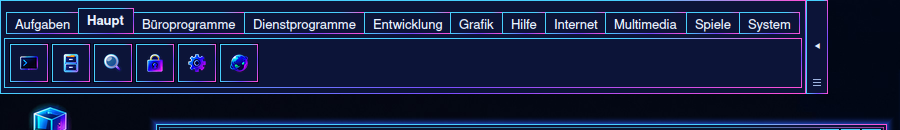
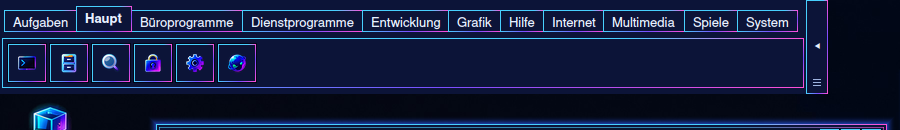
Warp Legacy: Reiter-Starter ohne äußeren Rahmen
Bevel kennt kind "none" (nur die Fläche, keine Kante, kein Neon-Rand);
die Schublade nutzt es, Rahmen von Seite und Reitern geben die Form.

diff --git a/common/Bevel.qml b/common/Bevel.qml
@@ -22,6 +22,7 @@ Rectangle {
     color: Kirigami.Theme.backgroundColor
 
     readonly property var lines: {
+        if (kind === "none") return [];        // the surface alone, no edge
         if (kind === "frame") return sunken ? [[dark, light]] : [[light, dark]];
         if (kind === "field") return [[dark, light], [ink, color]];
         return sunken ? [[ink, ink], [dark, light]] : [[ink, ink], [light, dark]];
@@ -29,7 +30,7 @@ Rectangle {
 
     // Neon draws the outer line of a raised frame or button as the window
     // frame does (NeonFrame.qml): cyan, pink in the right corners.
-    readonly property bool glowEdge: neon && !sunken && kind !== "field"
+    readonly property bool glowEdge: neon && !sunken && kind !== "field" && kind !== "none"
     NeonFrame {
         visible: root.glowEdge
         anchors.fill: parent

diff --git a/tablauncher/contents/ui/main.qml b/tablauncher/contents/ui/main.qml
@@ -126,9 +126,11 @@ PlasmoidItem {
         height: parent.height
         clip: true
 
+        // No outer frame (the user's wish): the page's frame and the tabs
+        // carry the shape.
         Bevel {
             id: pad
-            kind: "frame"
+            kind: "none"
             width: drawer.padWidth
             height: parent.height
             x: drawer.open ? 0 : -width
@@ -136,7 +138,7 @@ PlasmoidItem {
 
             ColumnLayout {
                 id: column
-                anchors.fill: parent; anchors.margins: 4
+                anchors.fill: parent; anchors.margins: 2
                 spacing: 0
 
                 // No title bar of its own (the user's wish): the tabs say
